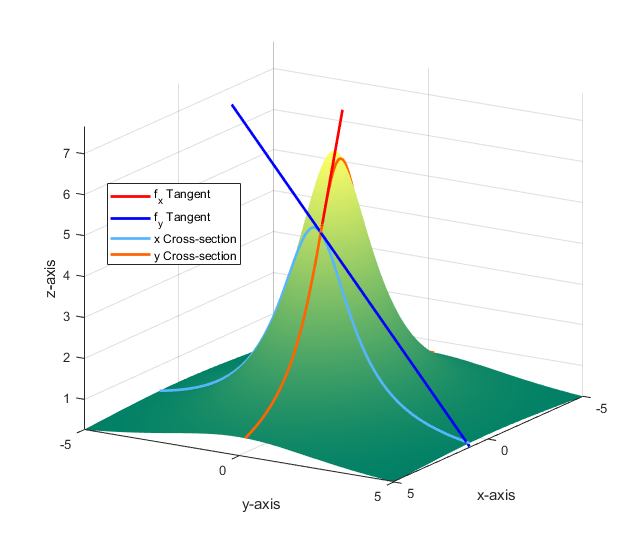
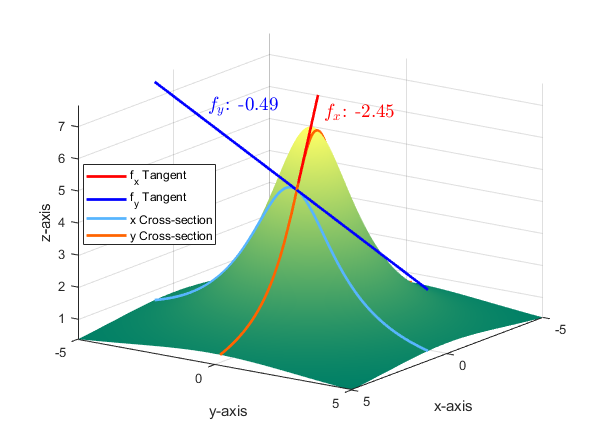
Update main

diff --git a/Vectors_Planes_Surfaces/Vectors/dotani.m b/Vectors_Planes_Surfaces/Vectors/dotani.m
@@ -1,0 +1,74 @@
+function dotani(A, B_original)
+    % Ensure A and B_original are column vectors for computation consistency
+    A = A(:);
+    B_original = B_original(:);
+
+    v = cross(A, B_original);
+    v = v / norm(v); % Make it a unit vector
+
+    theta = linspace(0, 2*pi, 100); % angle varying from 0 to 2pi
+
+    fig = figure;
+    axis([-1 1 -1 1 -1 1]); % set the plot limits
+    hold on;
+    grid on;
+    xlabel('X-axis');
+    ylabel('Y-axis');
+    zlabel('Z-axis');
+    view(-30,30);
+
+    % Create dummy plots for the legend
+    h1 = quiver3(0, 0, 0, A(1), A(2), A(3), 'r', 'LineWidth', 2,'autoscale','off');
+    h2 = quiver3(0, 0, 0, 0, 0, 0, 'b', 'LineWidth', 2,'autoscale','off');
+    
+    % Add a legend
+    legend([h1, h2], {'$\mathbf{a}$', '$\mathbf{b}$'}, 'Interpreter', 'latex','location','northeast');
+
+    % Add initial text placeholder for the dot product
+    t = text(-0.9, 0, 0.5, '', 'Color', 'black', 'FontSize', 14, 'Interpreter', 'latex');
+
+    for i = 1:length(theta)
+        % Rotate vector B around the axis perpendicular to the plane spanned by A and B_original
+        R = rotationMatrix(v, theta(i));
+        B = R * B_original;
+
+        % Calculate dot product of A and B
+        dotProd = dot(A, B);
+
+        % Update the B vector using the quiver3 handle
+        h2.UData = B(1);
+        h2.VData = B(2);
+        h2.WData = B(3);
+
+        % Update the text annotation for the dot product value
+        set(t, 'String', sprintf('$\\mathbf{a} \\cdot \\mathbf{b}$ = %.2f', dotProd));
+        
+        drawnow;
+
+        % Capture the current frame as an image
+        frame = getframe(fig);
+        im = frame2im(frame);
+        [imind,cm] = rgb2ind(im,256);
+
+        % Write to the GIF File 
+        if i == 1
+            imwrite(imind,cm,'dotani.gif','gif', 'Loopcount',inf, 'DelayTime',0.05);
+        else
+            imwrite(imind,cm,'dotani.gif','gif','WriteMode','append', 'DelayTime',0.05);
+        end
+    end
+end
+
+function R = rotationMatrix(axis, theta)
+    % Computes the rotation matrix around the given axis by the given angle
+    ct = cos(theta);
+    st = sin(theta);
+    omct = 1 - ct;
+    x = axis(1);
+    y = axis(2);
+    z = axis(3);
+
+    R = [x*x*omct + ct, x*y*omct - z*st, x*z*omct + y*st;
+         x*y*omct + z*st, y*y*omct + ct, y*z*omct - x*st;
+         x*z*omct - y*st, y*z*omct + x*st, z*z*omct + ct];
+end

diff --git a/Partial_Derivatives/partial_vis.m b/Partial_Derivatives/partial_vis.m
@@ -26,6 +26,10 @@ function partial_vis(f_sym, a, b, t, rng)
     tangent_line_x = dfdx_fun(a, b).*(t - a) + z0;
     tangent_line_y = dfdy_fun(a, b).*(t - b) + z0;
 
+    % Compute the slopes at (a, b)
+    slope_x = dfdx_fun(a, b);
+    slope_y = dfdy_fun(a, b);
+
     % Compute cross-sections at (a, b)
     cross_section_x = arrayfun(@(y) f(a, y), t);
     cross_section_y = arrayfun(@(x) f(x, b), t);
@@ -49,6 +53,10 @@ function partial_vis(f_sym, a, b, t, rng)
     ylabel('y-axis');
     zlabel('z-axis');
     legend([d1,d2,h1,h2],'f_x Tangent', 'f_y Tangent', 'x Cross-section', 'y Cross-section','location','best');
+    % Create text annotations with slopes
+    text(a-.5, b+0.5, z0+0.5, sprintf('$f_{x}$: %.2f', dfdx_fun(a,b)), 'Color', 'r', 'FontSize', 14, 'Interpreter', 'latex');
+    text(a+.5, b-0.5, z0+0.5, sprintf('$f_{y}$: %.2f', dfdy_fun(a,b)), 'Color', 'b', 'FontSize', 14, 'Interpreter', 'latex');
+    
 
     hold off;
     grid on;

diff --git a/README.md b/README.md
@@ -7,12 +7,57 @@ The content I used for this class was inspired by *An Illustrative Guide to Mult
 
 This section is contained in the 'Vectors_Planes_Surfaces' folder, covering chapter 12 of *Early Transcendentals* and chapter 1 of *An Illustrative Guide to Multivariable Calculus*. The highlights are **(1)** visualizing vector operations and **(2)** surfaces generated by conic sections (quadric surfaces).
 
+<div style="display: flex; justify-content: center;">
+  <img src="Vectors_Planes_Surfaces/Visuals/vector_animation.gif" alt="alt-text" width="400" height="250">
+  &nbsp; &nbsp; &nbsp; &nbsp; &nbsp; &nbsp; &nbsp; &nbsp; 
+  <img src="Vectors_Planes_Surfaces/Visuals/crossani.gif" alt="alt-text" width="400" height="250">
+</div>
+
 ## Space Curves, Brief Vector Calculus, Arclength and Curvature
 
 This section is contained in the 'Space_Curves' folder, covering chapter 13 of *Early Transcendentals* and section 5.A of *An Illustrative Guide to Multivariable Calculus*. The highlights are **(1)** animations for space curves and **(2)** animating the circle of curvature and the normal and tangent vectors as the curve is traversed in time.
 
+<div style="display: flex; justify-content: center;">
+  <img src="Space_Curves/Visuals/trefoil-knot.gif" alt="alt-text" width="400" height="250">
+  &nbsp; &nbsp; &nbsp; &nbsp; &nbsp; &nbsp; &nbsp; &nbsp; 
+  <img src="Space_Curves/Visuals/saddle_cylinder.gif" alt="alt-text" width="400" height="250">
+</div>
+
 ## Functions of Several Variables, Partial Derivatives, and the Gradient
 
-This Section is contained in the 'Partial_Derivatives' folder, covering chapter 14 of *Early Transcendentals* and chapter 2 of *An Illustrative Guide to Multivariable Calculus*. The highlights are
+This Section is contained in the 'Partial_Derivatives' folder, covering chapter 14 of *Early Transcendentals* and chapter 2-3 of *An Illustrative Guide to Multivariable Calculus*. The highlights are
+**(1)** graphing a surface with level curves simultaneously, **(2)** visualizing partial derivatives as the slope of tangent lines to cross sections of the surface, **(3)** plotting the tangent plane to a surface, and **(4)** animating the directional derivative.
+
+<div style="display: flex; justify-content: center;">
+  <img src="Partial_Derivatives/Visuals/hills.png" alt="alt-text" width="400" height="250">
+  &nbsp; &nbsp; &nbsp; &nbsp; &nbsp; &nbsp; &nbsp; &nbsp; 
+  <img src="Partial_Derivatives/Visuals/mountain_partials.png" alt="alt-text" width="400" height="250">
+</div>
+
+<br>
+
+<div style="display: flex; justify-content: center;">
+  <img src="Partial_Derivatives/Visuals/paraboloid_tangent2.png" alt="alt-text" width="400" height="250">
+  &nbsp; &nbsp; &nbsp; &nbsp; &nbsp; &nbsp; &nbsp; &nbsp; 
+  <img src="Partial_Derivatives/Visuals/mountain_dirder.gif" alt="alt-text" width="400" height="250">
+</div>
+
+## Integration
+
+This section is contained in the 'Integration' folder, covering chapter 15 of *Early Transcendentals* and chapter 4 of *An Illustrative Guide to Multivariable Calculus*. The highlights are **(1)** visualizing multiple integration as the total volume of the *body* under the surface of $z=f(x,y)$ and **(2)** animating surfaces of constant a spherical coordinate ("spherical planes").
+
+<div style="display: flex; justify-content: center;">
+  <img src="Integration/Visuals/integrateR1.png" alt="alt-text" width="400" height="250">
+  &nbsp; &nbsp; &nbsp; &nbsp; &nbsp; &nbsp; &nbsp; &nbsp; 
+  <img src="Integration/Visuals/animatedPhi.gif" alt="alt-text" width="400" height="250">
+</div>
 
 ## Vector Calculus
+
+This section is contained in 'Vector_Calculus', covering chapter 16 of *Early Transcendentals* and chapter 5 of *An Illustrative Guide to Multivariable Calculus*. The highlights are **(1)** animating different paths taken in a vector field for line integrals and **(2)** visualizing the flux through a parametric surface.
+
+<div style="display: flex; justify-content: center;">
+  <img src="Vector_Calculus/Visuals/xy_y^2,x^2curves.gif" alt="alt-text" width="400" height="250">
+  &nbsp; &nbsp; &nbsp; &nbsp; &nbsp; &nbsp; &nbsp; &nbsp; 
+  <img src="Vector_Calculus/Visuals/helicoid_field.png" alt="alt-text" width="400" height="250">
+</div>

diff --git a/Vectors_Planes_Surfaces/README.md b/Vectors_Planes_Surfaces/README.md
@@ -1,55 +1,65 @@
 ## Vectors
-***
+##
 
 ### vector_addition(vector1,vector2).m 
-***
+##
 takes as input two 3D row vectors, $[a,b,c]$, whose tails are at the origin and animates the physical interpretation of their addition. Specifically, the function moves the second vector along the line from the origin to the tail of the first vector while mainting the same magnitude and direction, then the animation draws the resulting vector sum.
 
 <img src="Visuals/vector_animation.gif" alt="alt-text" width="400" height="250">
 
+##
+
 ### crossani(vector1,vector2).m
-***
 animates the cross product of two vectors as the angle between them varies from $0$ to $2\pi$. The purpose is to show that the cross product is $0$ when the vectors are parallel and maximum when they are perpendicular.
 
 <img src="Visuals/crossani.gif" alt="alt-text" width="400" height="250">
 
+##
+
+### dotani(vector1,vector2).m
+displays the value of the dot product as vector2 is rotated about vector1 along the conventional angle $\theta$. Shows that the dot product is maximal when the two vectors are parallel and minimal when they are perpendicular.
+
+<img src="Visuals/dotani.gif" alt="alt-text" width="400" height="250">
+
+##
+
 ### pyth3d(vector1,vector2).m
-***
 
 draws the parallelogram formed by the two input vectors. Then also draws the projections of the parallelogram onto the coordinate planes. This function was used to illustrate the proof that the magnitude of the cross product is equal to the area of the paralleogram formed by the two vectors. Specifically, it illustrates what may be called a **3D generalization of *Pythagoras'* theorem**: The square of the yellow parallogram is equal to the sum of the squares of its three projections (the red, green, and blue ones).
 
 <img src="Visuals/pyth3d.png" alt="alt-text" width="400" height="250">
 
 ## Planes
-***
+##
 
 ### planeandpoint(normal,pointOnPlane,pointOffPlane).m
-***
 draws a plane with one point not on the plane for visualizing the process of finding the shortest distance between a plane and a point
 
+##
+
 ### skewlinesandplanes(point1,direction1,point2,direction2).m
-***
 plots two skew lines defined by the input parameters and then draws the parallel planes going through both lines. Used for demonstrating the process of computing the shortest distance between two lines.
 
 <img src="Visuals/skewlines.png" alt="alt-text" width="400" height="250">
 
 ## Surfaces
-***
+##
 
 ### conicsections('conic').m
-***
 draws a cone with a plane whose intersection is the input 'conic'. Accepts 'line','parabola','circle', or 'hyperbola' as parameters. Purpose is to remind students about the conic sections and explain to them that the forthcoming **quadric surfaces are the 3D extension of the quadratic curves** they learned in highschool and single variable calculus.
 
 <img src="Visuals/conic.png" alt="alt-text" width="400" height="250">
 
+##
+
 ### hyperbolicparaboloid(a,b).m
-***
 draws a hyperbolic paraboloid $z=ax^2-by^2$ with level curves $z=-.05,.05$ in blue and red respectively.
 
 <img src="Visuals/hyperbolicparaboloid.png" alt="alt-text" width="400" height="250">
 
+##
+
 ### graphsurf(f).m
-***
 draws the surface $S$ defined by the equation $z=f(x,y)$ for a well-behaved function $f:\mathbb{R}^2\rightarrow\mathbb{R}$. There are options to change the domain $(x,y)\in D$ in the code. Below I have drawn an elliptic paraboloid $f(x,y)=2x^2+y^2+1$ and the infamous *monkey saddle* $f(x,y)=x^3-3xy^2$.
 
 <div style="display: flex; justify-content: center;">

diff --git a/Integration/README.md b/Integration/README.md
@@ -3,11 +3,17 @@
 
 ### int_vis(r, u_range, v_range, delta).m
 
+draws the surface $S$ determined by $z=f(x,y)$ and parametrized by $r(x,y)=\langle x,y,f(x,y)\rangle$ over the range specified by u_range and v_range, then draws the rectangular volumes for estimating the double integral over the surface. delta controls how many blocks are used. The height of the block is determined by evaluating the $f$ at the smallest vertex of the rectangle. 
+
+The function expects the output of $r$ to be a 3D matrix whose layers correspond to the cartesian coordinates. The surface below is given by $z=x^2+y^2$, thus in MATLAB, $r(x,y)=@(x,y)\ \text{cat}(3,x,y,x^2+y^2);$
+
 <img src="Visuals/integrate.png" alt="alt-text" width="400" height="250">
 
 ##
 
 ### int_visR(r, u_range, v_range, delta).m
+
+accomplishes the same task as the above function except the height of the rectangular block is determined by evaluating $f$ at a randomly chosen point inside each subrectangle of the domain.
 
 <div style="display: flex; justify-content: center;">
   <img src="Visuals/integrateR1.png" alt="alt-text" width="300" height="250">
@@ -20,7 +26,11 @@
 ## Spherical Coordinates
 ##
 
+To transition from cartesian coordinates $(x,y,z)$ to spherical coordinates $(\rho,\theta,\phi)$ one uses the formulas: $x=\rho\cos(\theta)\sin(\phi)$, $y=\rho\sin(\theta)\sin(\phi)$, and $z=\rho\cos(\phi)$.
+
 ### rhoani().m
+
+creates an animation for constant values of $\rho$ in spherical coordinates
 
 <img src="Visuals/animatedSphere.gif" alt="alt-text" width="400" height="250">
 
@@ -28,10 +38,14 @@
 
 ### theta().m
 
+creates an animation for constant values of $\theta$ in spherical coordinates
+
 <img src="Visuals/animatedTheta.gif" alt="alt-text" width="400" height="250">
 
 ##
 
 ### phiani().m
+
+creates an animation for constant values of $\phi$ in spherical coordinates
 
 <img src="Visuals/animatedPhi.gif" alt="alt-text" width="400" height="250">

diff --git a/Space_Curves/README.md b/Space_Curves/README.md
@@ -1,14 +1,14 @@
 ## Curvature
-***
+##
 
 ### viscurvature(f,g,h,t).m
-***
 Draws the spacecurve defined by $F(t)=(f(t),g(t),h(t)):\mathbb{R}^3\rightarrow\mathbb{R}$ (default $t\in[0,2\pi]$) and the normal and tangent vectors at a point $1/5$ along $t$, in addition to the circle of curvature at that point. Options to include the binormal vector, osculating plane, and normal plane.
 
 <img src="Visuals/static-curv.png" alt="alt-text" width="400" height="250">
 
+##
+
 ### anicurvature(f,g,h,t).m
-***
 The code *anicurvature.m* takes as input the parametric equations for a vector function, then animates the circle of curvature and the tangent, normal, and binormal vectors as the curve is traversed. Optional input is the range of parameter values. When the code is finished running it produces the animation as a gif *anicurvature.gif*.
 
 A helix about the $z$-axis.
@@ -37,16 +37,16 @@ The intersection of a cylinder with a plane results in the ellipse parametrized 
 
 
 ## Space Curves
-***
+##
 
 ### arclength(f,g,h,t1,t2).m
-***
 Draws a spacecurve defined by $F(t)=(f(t),g(t),h(t)):\mathbb{R}^3\rightarrow\mathbb{R}$ (default $t\in[0,2\pi]$) and the arc of the segment between the times $t_1$ and $t_2$.
 
 <img src="Visuals/arclength.png" alt="alt-text" width="400" height="250">
 
+##
+
 ### spacecurve(f,g,h,t).m
-***
 Animates the spacecurve defined by $F(t)=(f(t),g(t),h(t)):\mathbb{R}^3\rightarrow\mathbb{R}$ over the range specified in $t$ (default is $t=[0,2\pi]$).
 
 Helices moving about the $z$ and $y$ axes respectively
